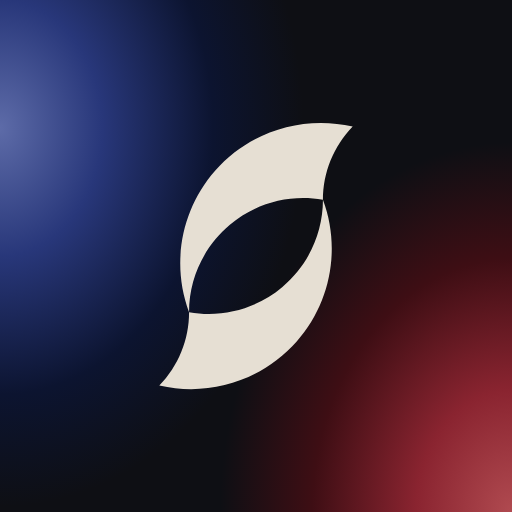
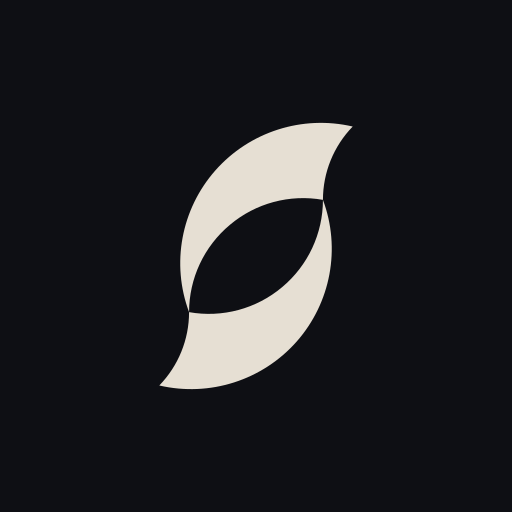
App-ikon i den sorte udgave fra reklamefilmen: S'et i Kalk på flad Nat
Ny service worker-version, så installerede apps henter de nye ikoner.

diff --git a/sw.js b/sw.js
@@ -2,7 +2,7 @@
 // Registreres kun fra Min avis. Sider og sager hentes altid fra nettet først og gemmes som reserve;
 // layout, skrift og ikoner gemmes og opdateres i baggrunden. /api/ (login og profil) gemmes aldrig.
 // Ret VERSION, når listen herunder ændres, så gamle kopier ryddes væk.
-const VERSION = "sagsvagt-v4";
+const VERSION = "sagsvagt-v5";
 const FAST = `${VERSION}-fast`, SIDER = `${VERSION}-sider`;
 const GRUNDLAG = [
   "/min/", "/offline.html", "/assets/avis.css", "/assets/fonts/montserrat.css", "/assets/fonts/montserrat-latin.woff2",
